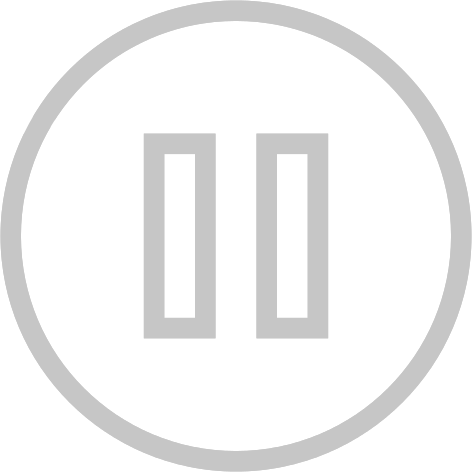
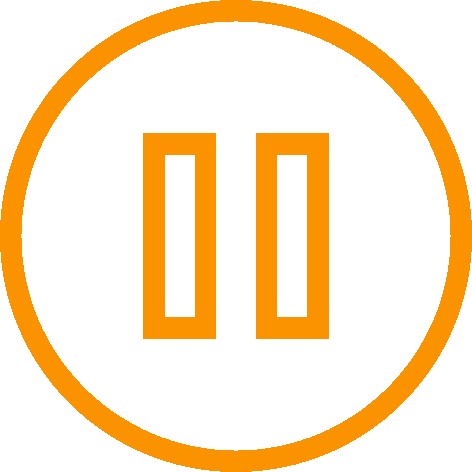
play pause button filter

Changed region(s): [[0.0, 0.0, 1.0, 1.0], [0.5339, 0.2669, 0.7119, 0.7415], [0.2966, 0.2669, 0.4746, 0.7415]]

diff --git a/src/lib/components/frontComps.jsx b/src/lib/components/frontComps.jsx
@@ -47,6 +47,7 @@ class FrontComps extends React.Component {
       updateAudio: true,
       shuffle: false
     };
+    this.globalFilterDig = 0;
     this.nextPlayingNow = (num, length) => {
       return (num+length)%length;
     }
@@ -214,7 +215,10 @@ class FrontComps extends React.Component {
               }}/>
           </div>
         </div>
-        <BackGroundPic playing={ this.state.playing }/>
+        <BackGroundPic playing={ this.state.playing } passFilterDig={ (n)=>{
+            this.globalFilterDig = n;
+            console.log(this.globalFilterDig)
+          }}/>
         <TrackName name={ this.state.trackName } />
         <div className="trackTimeInfo">
           <TrackCurrentTime
@@ -235,7 +239,7 @@ class FrontComps extends React.Component {
                 }
               }
             }/>
-          <PlayPauseButton playing={ this.state.playing } playingPassFunc={(playing)=>{
+          <PlayPauseButton filterDeg={ this.globalFilterDig } playing={ this.state.playing } playingPassFunc={(playing)=>{
               if (this.state.playlist.length != 0){
                 this.setState({playing: playing});
               }

diff --git a/src/lib/components/front/playPauseButton.jsx b/src/lib/components/front/playPauseButton.jsx
@@ -25,11 +25,11 @@ class PlayPauseButton extends React.Component {
   render(){
     if (this.state.playing){
       return(
-        <img className = 'playPauseButton' src={ this.pauseSrc } onClick={ this.clickHandler }/>
+        <img style={{filter: `hue-rotate(${this.props.filterDeg}deg)`}} className = 'playPauseButton' src={ this.pauseSrc } onClick={ this.clickHandler }/>
       )
     }
     return(
-      <img className = 'playPauseButton' src={ this.playSrc } onClick={ this.clickHandler } />
+      <img style={{filter: `hue-rotate(${this.props.filterDeg}deg)`}} className = 'playPauseButton' src={ this.playSrc } onClick={ this.clickHandler } />
     )
   }
 }

diff --git a/src/lib/components/front/backgroundPic.jsx b/src/lib/components/front/backgroundPic.jsx
@@ -10,6 +10,7 @@ class BackGroundPic extends React.Component {
     }
     this.filter = setInterval(()=>{
       let filterNow = this.state.filterDeg;
+      this.props.passFilterDig(filterNow+1);
       this.setState({filterDeg: filterNow+1});
    },50);
   }
@@ -18,6 +19,7 @@ class BackGroundPic extends React.Component {
     if (this.props.playing) {
       this.filter = setInterval(()=>{
         let filterNow = (this.state.filterDeg%360);
+        this.props.passFilterDig(filterNow+1);
         this.setState({filterDeg: filterNow+1});
      },50);
     }
